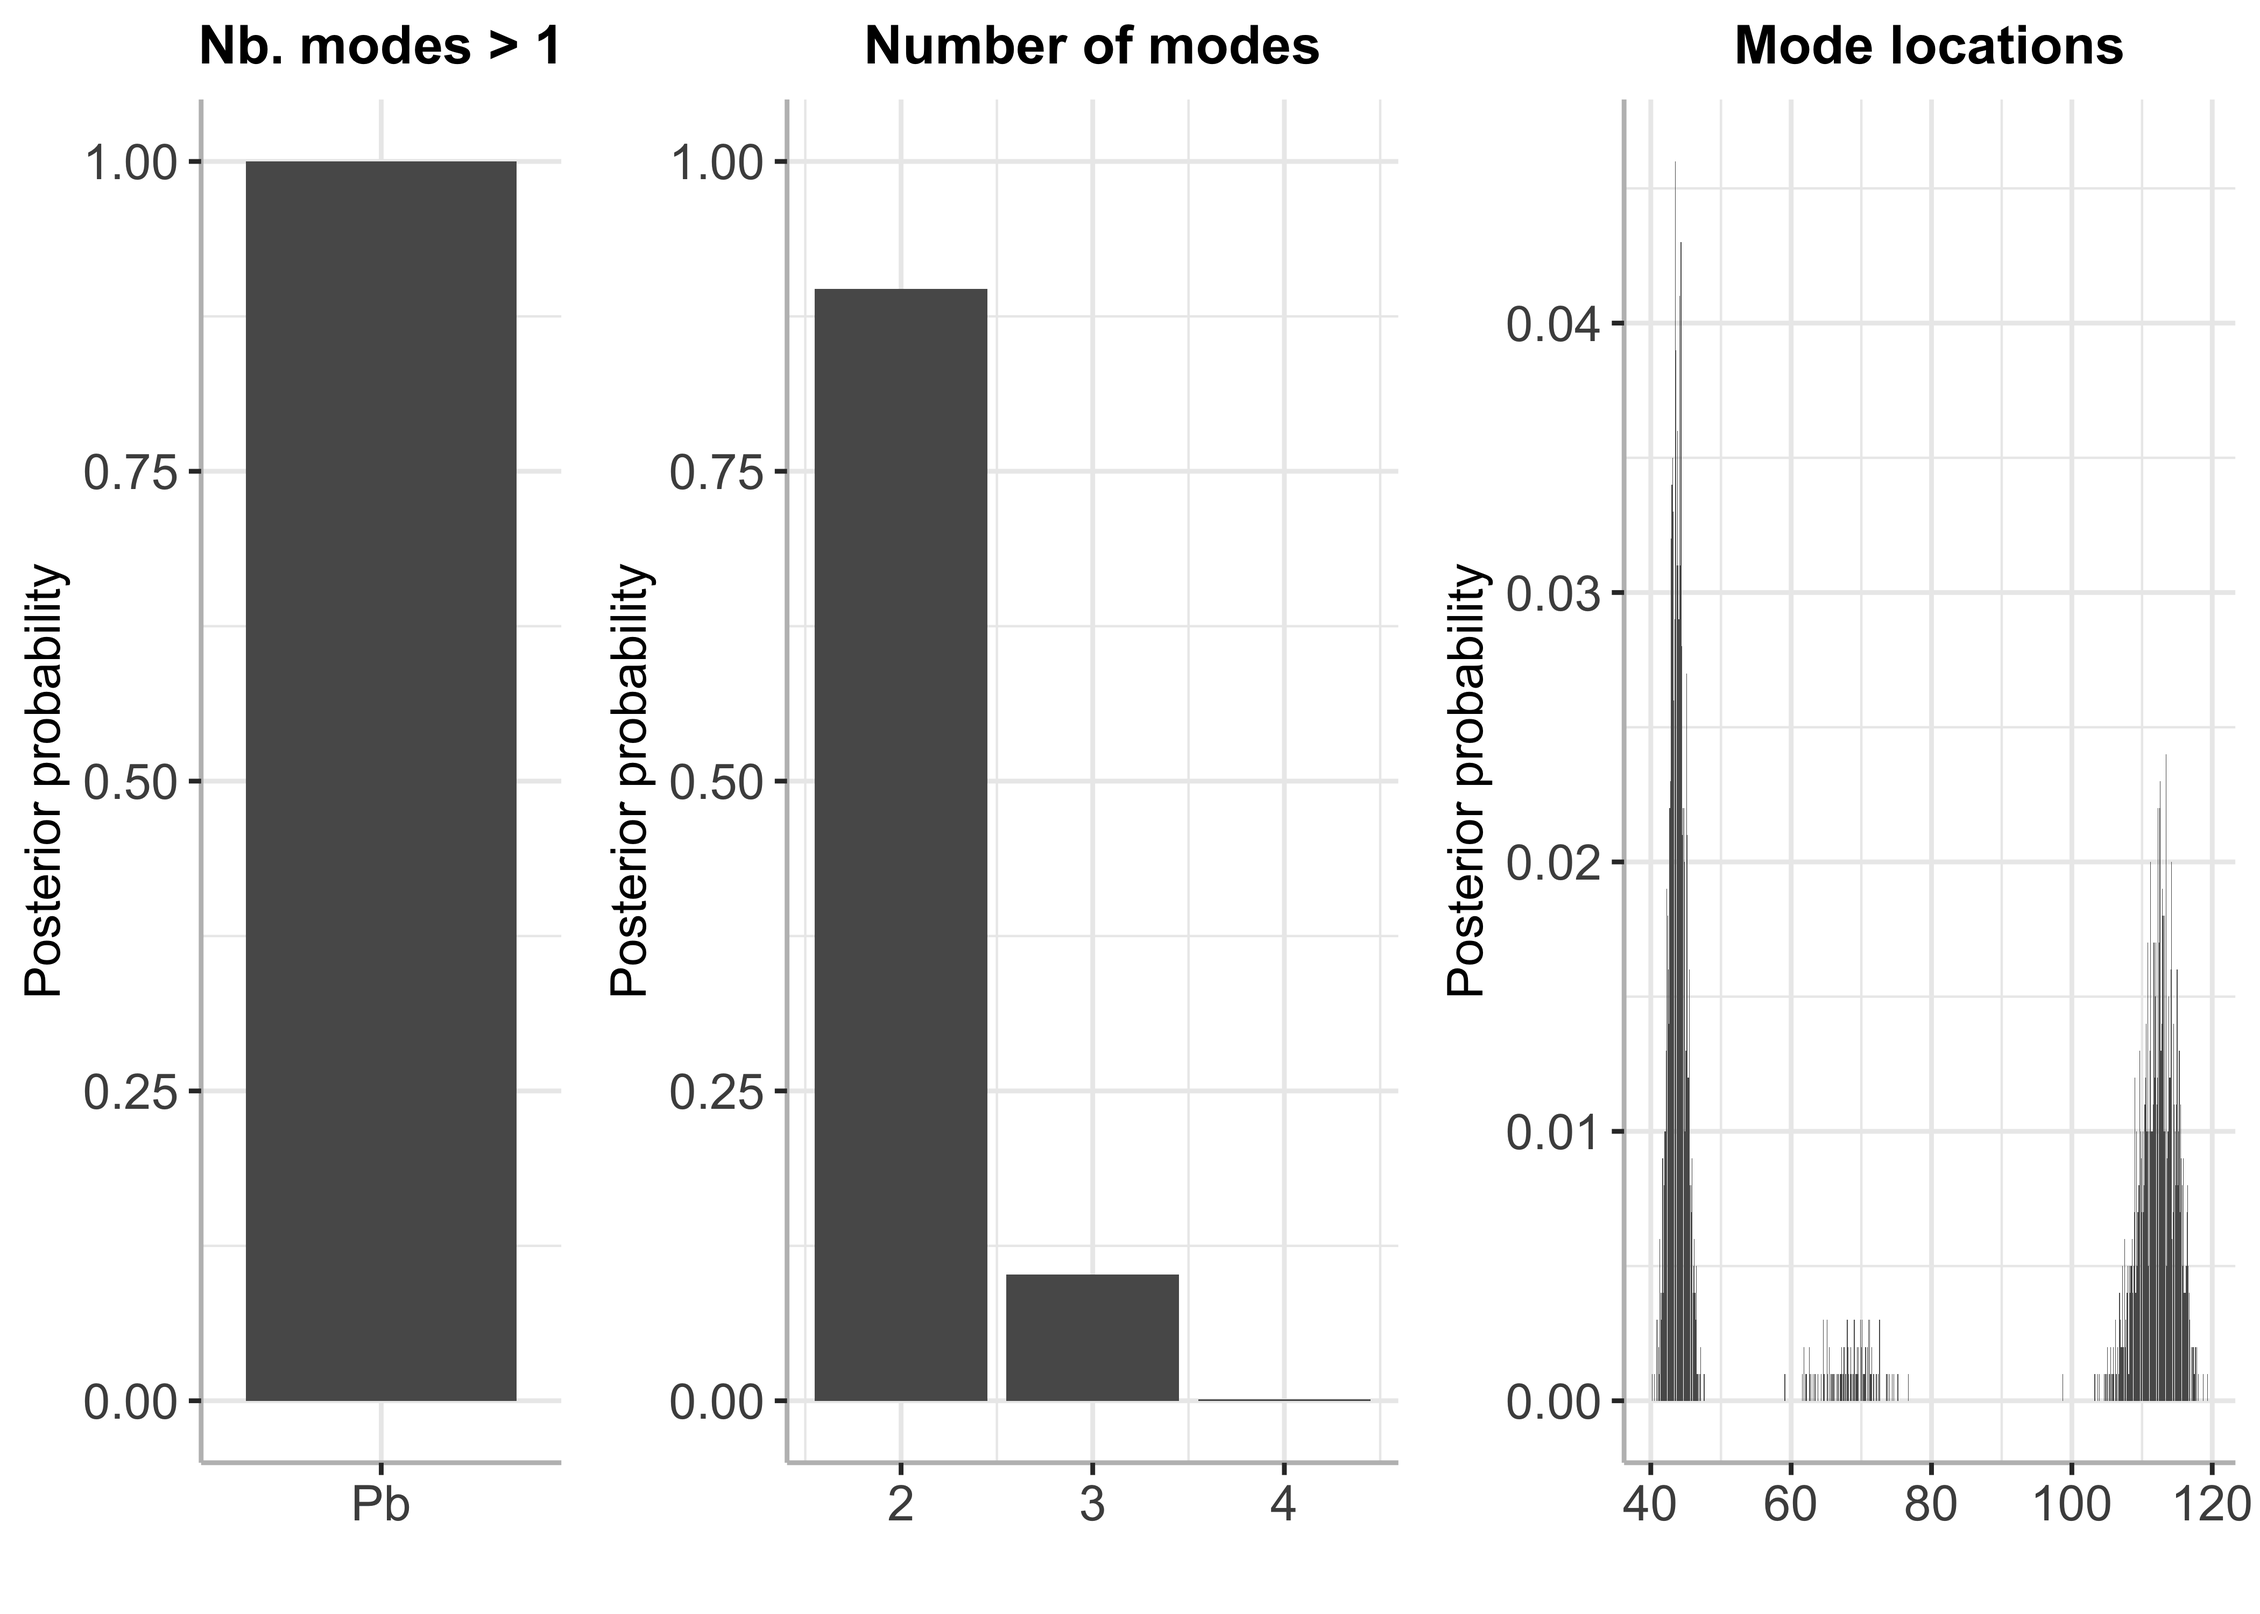
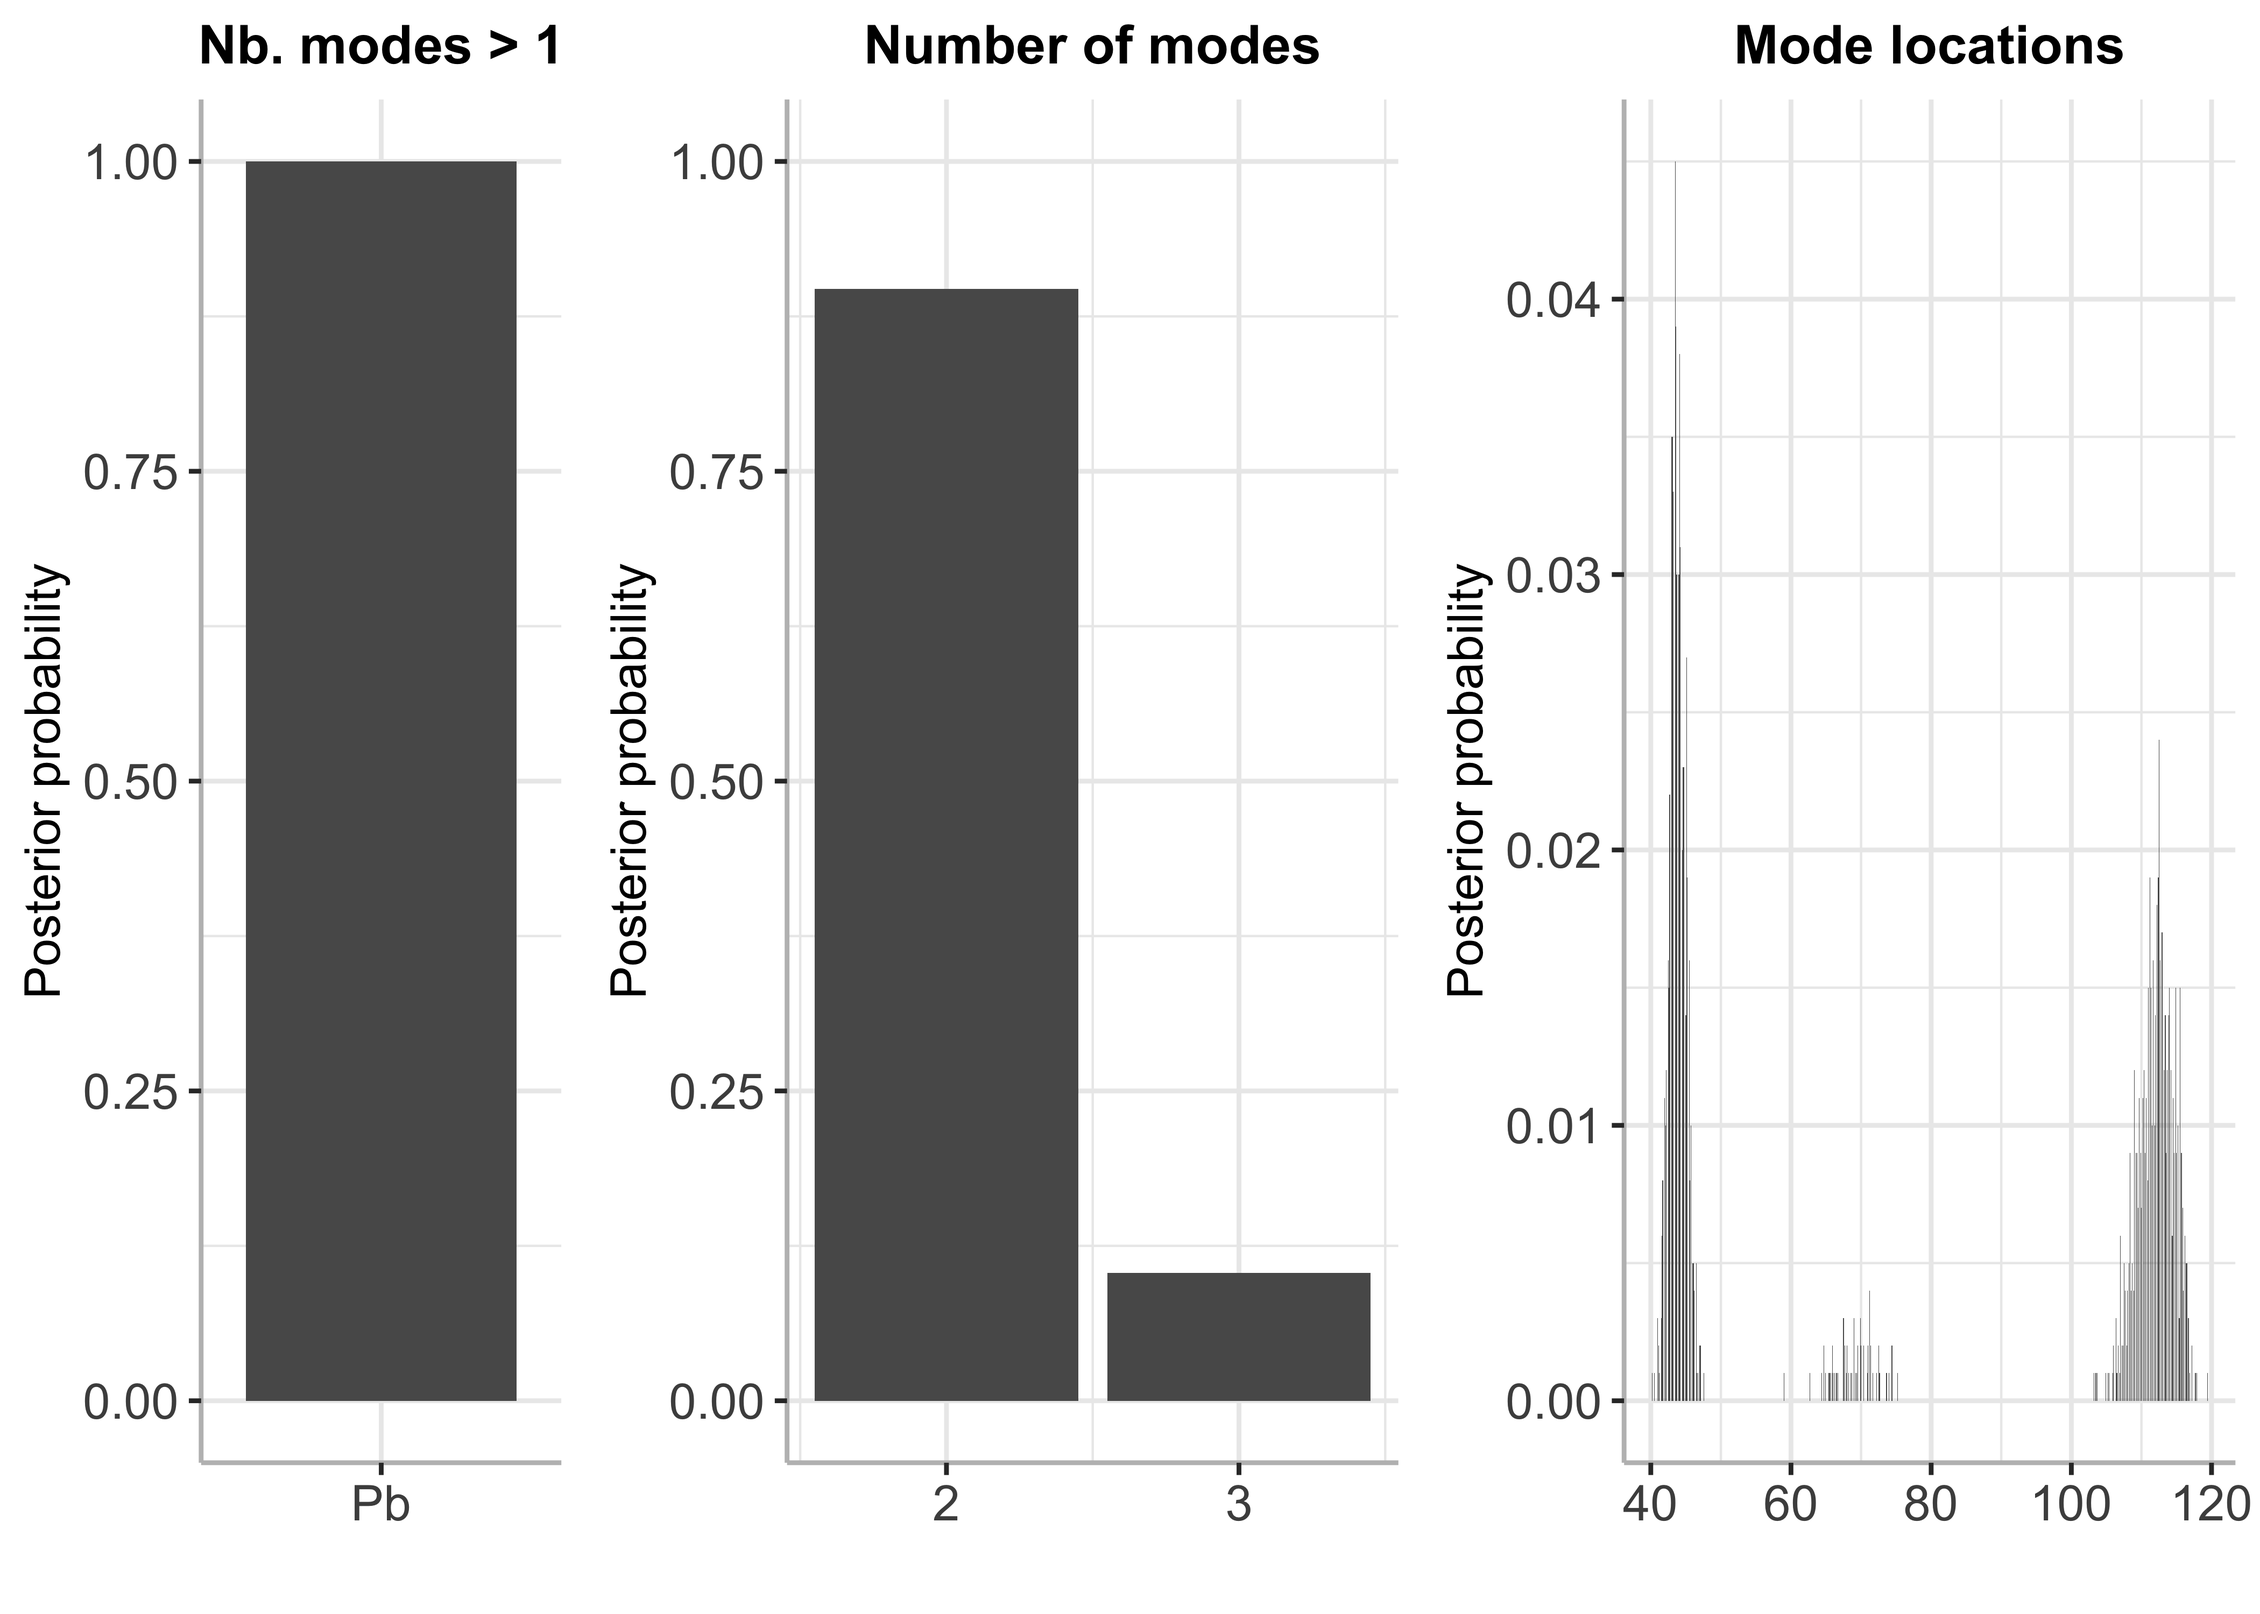
readme

diff --git a/README.md b/README.md
@@ -61,7 +61,7 @@ bayesmix = bayes_estimation(data = y,
                             dist = "normal",
                             nb_iter = 2000,
                             burnin = 1000,
-                            printing = F)
+                            print = F)
 
 plot(bayesmix, draws = 200)
 ```
@@ -83,15 +83,15 @@ plot(bayesmode)
 summary(bayesmode)
 ```
 
-    ## The posterior probability of the data being multimodal is 0.999
+    ## The posterior probability of the data being multimodal is 0.993
     ## 
     ##  Number of estimated modes and their posterior probabilities:
 
     ##      Number of modes Posterior probabilty
-    ## [1,]               1                0.001
-    ## [2,]               2                0.067
-    ## [3,]               3                0.902
-    ## [4,]               4                0.030
+    ## [1,]               1                0.007
+    ## [2,]               2                0.133
+    ## [3,]               3                0.840
+    ## [4,]               4                0.020
 
 ### Using BayesMultiMode for mode inference with external MCMC output
 
@@ -186,8 +186,7 @@ summary(bayesmode)
 
     ##      Number of modes Posterior probabilty
     ## [1,]               2                0.897
-    ## [2,]               3                0.102
-    ## [3,]               4                0.001
+    ## [2,]               3                0.103
 
 ### References
 
